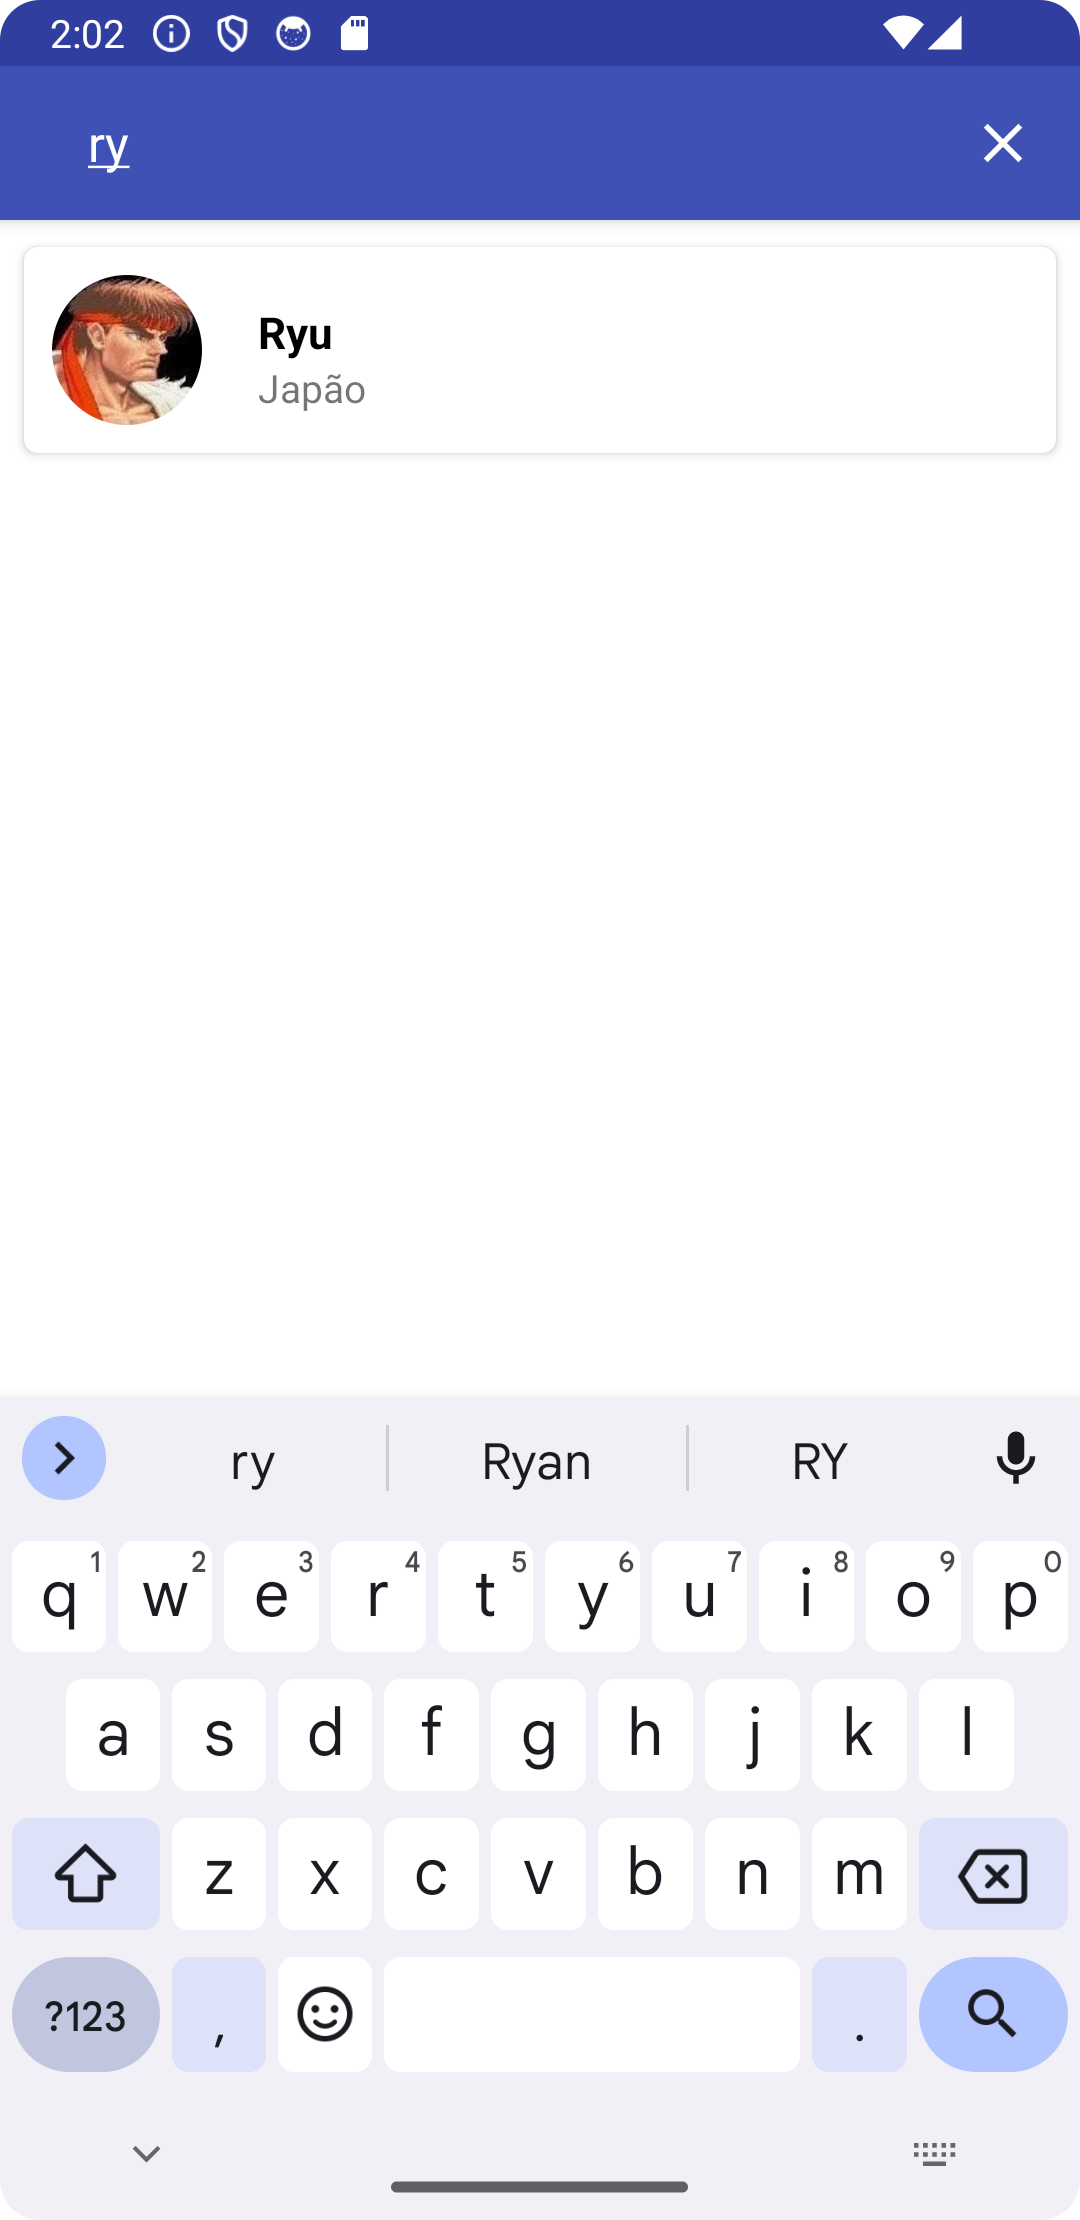
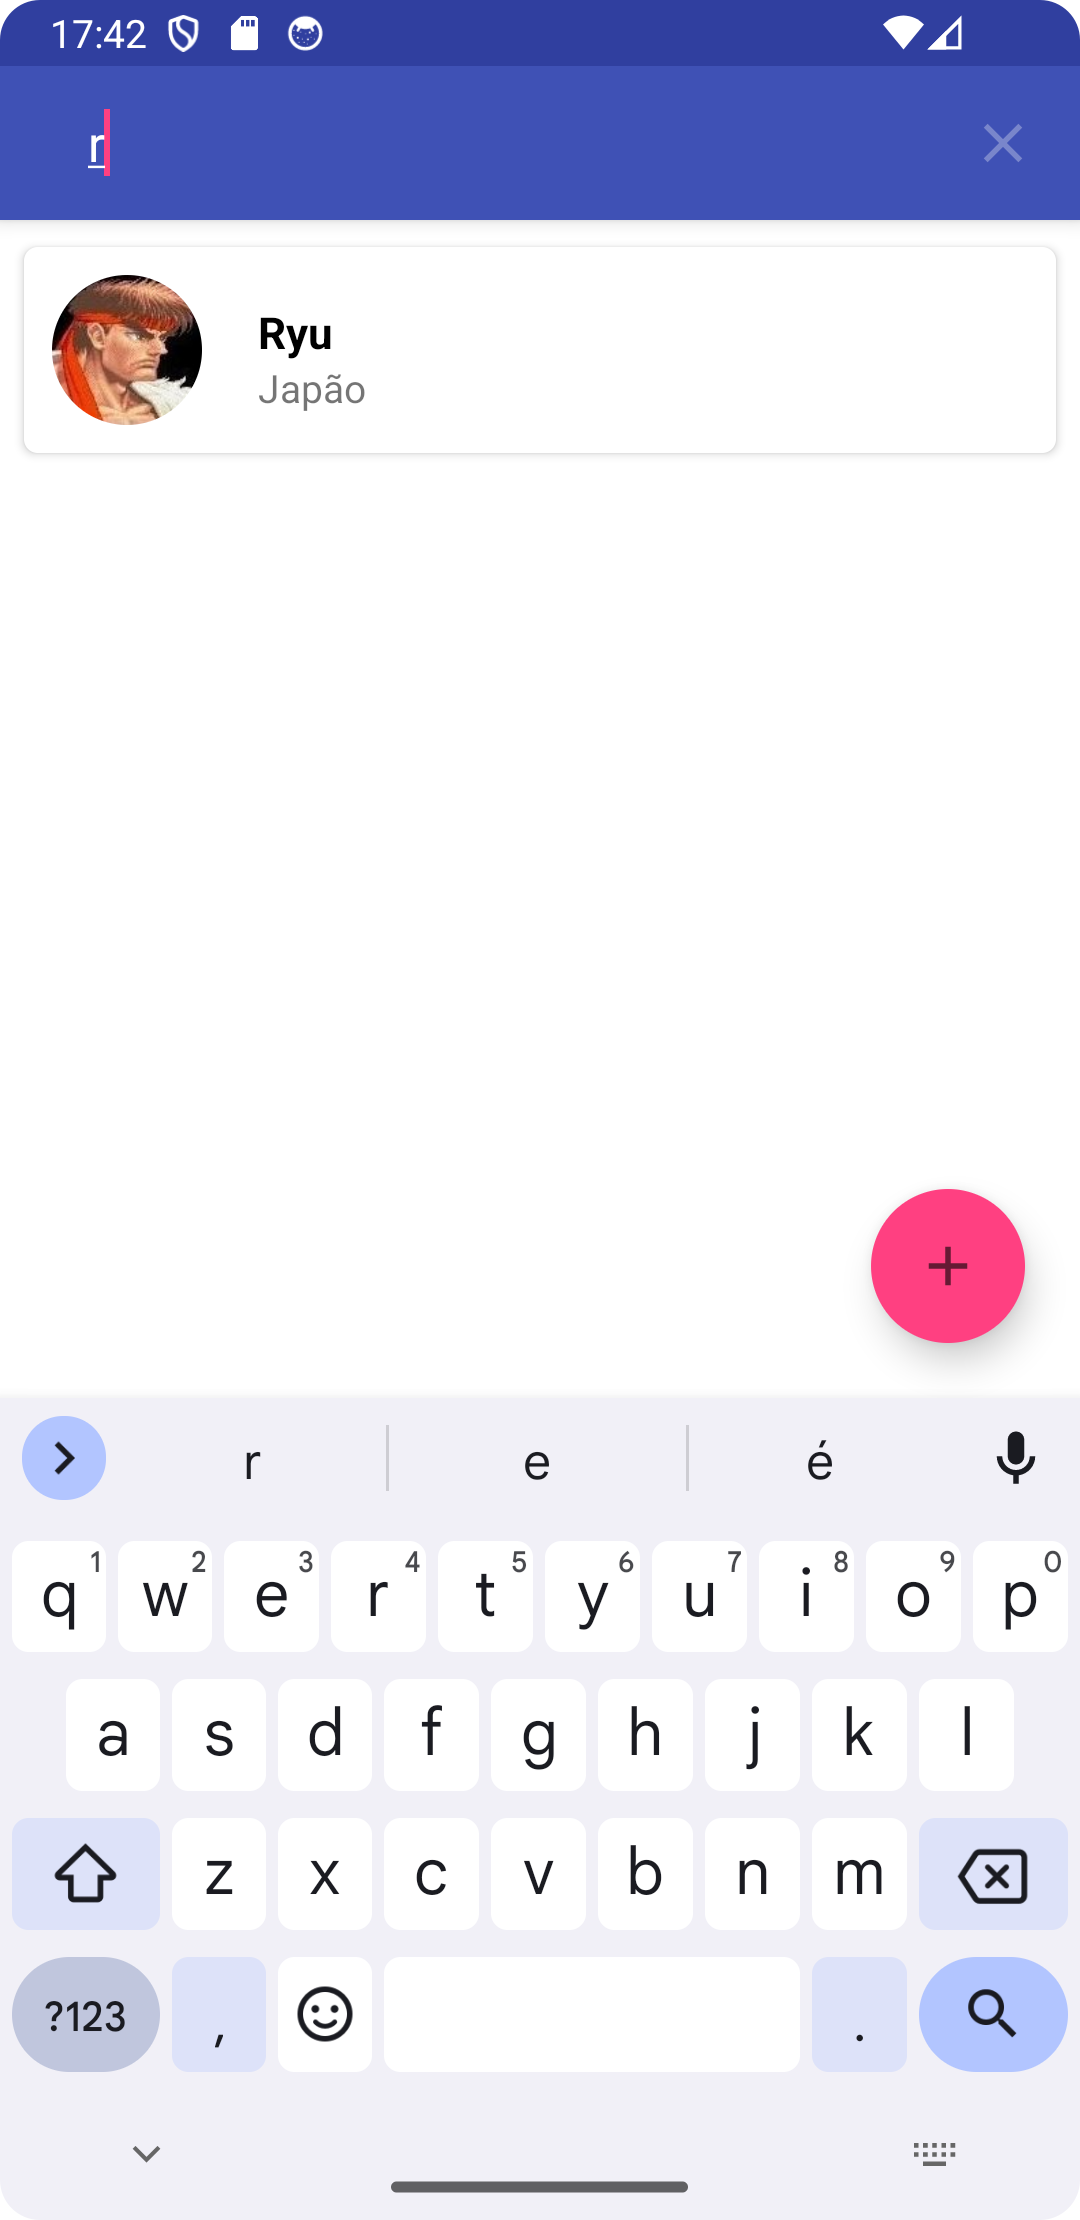
Create Fighter

diff --git a/app/src/main/java/br/rafaelhorochovec/app_streetfighter_android/CreateActivity.java b/app/src/main/java/br/rafaelhorochovec/app_streetfighter_android/CreateActivity.java
@@ -1,0 +1,74 @@
+package br.rafaelhorochovec.app_streetfighter_android;
+
+import android.content.Intent;
+import android.os.Bundle;
+import android.util.Log;
+import android.view.View;
+import android.widget.Button;
+import android.widget.EditText;
+import android.widget.ProgressBar;
+import android.widget.TextView;
+import android.widget.Toast;
+
+import androidx.appcompat.app.AppCompatActivity;
+
+import br.rafaelhorochovec.app_streetfighter_android.pojo.Fighter;
+import br.rafaelhorochovec.app_streetfighter_android.retrofit.ApiClient;
+import br.rafaelhorochovec.app_streetfighter_android.retrofit.ApiInterface;
+import retrofit2.Call;
+import retrofit2.Callback;
+import retrofit2.Response;
+
+public class CreateActivity extends AppCompatActivity {
+
+    private EditText nameEdt, countryEdt;
+    private Button saveBtn;
+    private String thumbnailUrl;
+
+    @Override
+    protected void onCreate(Bundle savedInstanceState) {
+        super.onCreate(savedInstanceState);
+
+        assert getSupportActionBar() != null;
+        getSupportActionBar().setDisplayHomeAsUpEnabled(true);
+        setContentView(R.layout.activity_create);
+
+        nameEdt = findViewById(R.id.edt_name);
+        countryEdt = findViewById(R.id.edt_country);
+        saveBtn = findViewById(R.id.btn_submit);
+
+        saveBtn.setOnClickListener(new View.OnClickListener() {
+            @Override
+            public void onClick(View v) {
+                thumbnailUrl = "https://rlhorochovec.github.io/streetfighter/"+ nameEdt.getText().toString().toLowerCase() +".jpg";
+                postFighter(nameEdt.getText().toString(), countryEdt.getText().toString(), thumbnailUrl);
+            }
+        });
+    }
+
+    private void postFighter(String name, String country, String thumbnailUrl) {
+        ApiInterface apiService = ApiClient.getRetrofitInstance().create(ApiInterface.class);
+        Fighter fighter = new Fighter(name, country, thumbnailUrl);
+        Call<Fighter> call = apiService.saveFighter(fighter);
+
+        call.enqueue(new Callback<Fighter>() {
+            @Override
+            public void onResponse(Call<Fighter> call, Response<Fighter> response) {
+                Toast.makeText(CreateActivity.this, "Salvo com sucesso!", Toast.LENGTH_SHORT).show();
+                Intent i = new Intent(getBaseContext(), MainActivity.class);
+                startActivity(i);
+            }
+
+            @Override
+            public void onFailure(Call<Fighter> call, Throwable t) {
+                Log.d("TAG","Response = "+ t);
+            }
+        });
+    }
+
+    @Override
+    public boolean onSupportNavigateUp() {
+        finish();
+        return true;
+    }
+}

diff --git a/app/src/main/java/br/rafaelhorochovec/app_streetfighter_android/MainActivity.java b/app/src/main/java/br/rafaelhorochovec/app_streetfighter_android/MainActivity.java
@@ -2,15 +2,20 @@ package br.rafaelhorochovec.app_streetfighter_android;
 
 import android.app.SearchManager;
 import android.content.Context;
+import android.content.Intent;
 import android.os.Bundle;
 import android.util.Log;
 import android.view.Menu;
 import android.view.MenuItem;
+import android.view.View;
 
 import androidx.appcompat.widget.SearchView;
 import androidx.appcompat.app.AppCompatActivity;
 import androidx.recyclerview.widget.LinearLayoutManager;
 import androidx.recyclerview.widget.RecyclerView;
+
+import com.google.android.material.floatingactionbutton.FloatingActionButton;
+import com.google.android.material.snackbar.Snackbar;
 
 import java.util.ArrayList;
 import java.util.List;
@@ -56,6 +61,14 @@ public class MainActivity extends AppCompatActivity {
             @Override
             public void onFailure(Call<List<Fighter>> call, Throwable t) {
                 Log.d("TAG","Response = "+ t);
+            }
+        });
+        FloatingActionButton fab = findViewById(R.id.create);
+        fab.setOnClickListener(new View.OnClickListener() {
+            @Override
+            public void onClick(View view) {
+                Intent i = new Intent(getBaseContext(), CreateActivity.class);
+                startActivity(i);
             }
         });
     }

diff --git a/app/src/main/java/br/rafaelhorochovec/app_streetfighter_android/pojo/Fighter.java b/app/src/main/java/br/rafaelhorochovec/app_streetfighter_android/pojo/Fighter.java
@@ -1,6 +1,5 @@
 package br.rafaelhorochovec.app_streetfighter_android.pojo;
 
-import com.google.gson.annotations.Expose;
 import com.google.gson.annotations.SerializedName;
 
 public class Fighter {
@@ -23,14 +22,10 @@ public class Fighter {
     @SerializedName("updatedAt")
     public String updatedAt;
 
-
-    public Fighter(Integer id, String name, String country, String thumbnailUrl, String createdAt, String updatedAt) {
-        this.id = id;
+    public Fighter(String name, String country, String thumbnailUrl) {
         this.name = name;
         this.country = country;
-        this.thumbnailUrl = thumbnailUrl;
-        this.createdAt = createdAt;
-        this.updatedAt = updatedAt;
+        this.thumbnailUrl =thumbnailUrl;
     }
 
     public Integer getId() {

diff --git a/app/src/main/java/br/rafaelhorochovec/app_streetfighter_android/retrofit/ApiInterface.java b/app/src/main/java/br/rafaelhorochovec/app_streetfighter_android/retrofit/ApiInterface.java
@@ -4,10 +4,15 @@ import java.util.List;
 
 import br.rafaelhorochovec.app_streetfighter_android.pojo.Fighter;
 import retrofit2.Call;
+import retrofit2.http.Body;
 import retrofit2.http.GET;
+import retrofit2.http.POST;
 
 public interface ApiInterface {
 
     @GET("/api/fighters")
     Call<List<Fighter>> getFighters();
+
+    @POST("/api/fighters")
+    Call<Fighter> saveFighter(@Body Fighter fighter);
 }

diff --git a/app/src/main/java/br/rafaelhorochovec/app_streetfighter_android/SplashActivity.java b/app/src/main/java/br/rafaelhorochovec/app_streetfighter_android/SplashActivity.java
@@ -18,7 +18,7 @@ public class SplashActivity extends AppCompatActivity {
             public void run() {
                 initSplashActivity();
             }
-        }, 3000);
+        }, 1000);
     }
 
     private void initSplashActivity() {

diff --git a/README.md b/README.md
@@ -8,4 +8,4 @@ Projeto de aplicativo utilizando Android Java e Retrofit, consumindo dados de um
 - Filtrar
 
 ## Screenshots
-<img src="https://github.com/rlhorochovec/app_streetfighter_android/blob/develop/screenshots/splash_screen.png" width="250" /> <img src="https://github.com/rlhorochovec/app_streetfighter_android/blob/develop/screenshots/list_fighters.png" width="250" /> <img src="https://github.com/rlhorochovec/app_streetfighter_android/blob/develop/screenshots/filter_fighters.png" width="250" />
+<img src="https://github.com/rlhorochovec/app_streetfighter_android/blob/develop/screenshots/splash_screen.png" width="250" /> <img src="https://github.com/rlhorochovec/app_streetfighter_android/blob/develop/screenshots/create_fighter.png" width="250" /> <br /> <img src="https://github.com/rlhorochovec/app_streetfighter_android/blob/develop/screenshots/list_fighters.png" width="250" /> <img src="https://github.com/rlhorochovec/app_streetfighter_android/blob/develop/screenshots/filter_fighter.png" width="250" />
